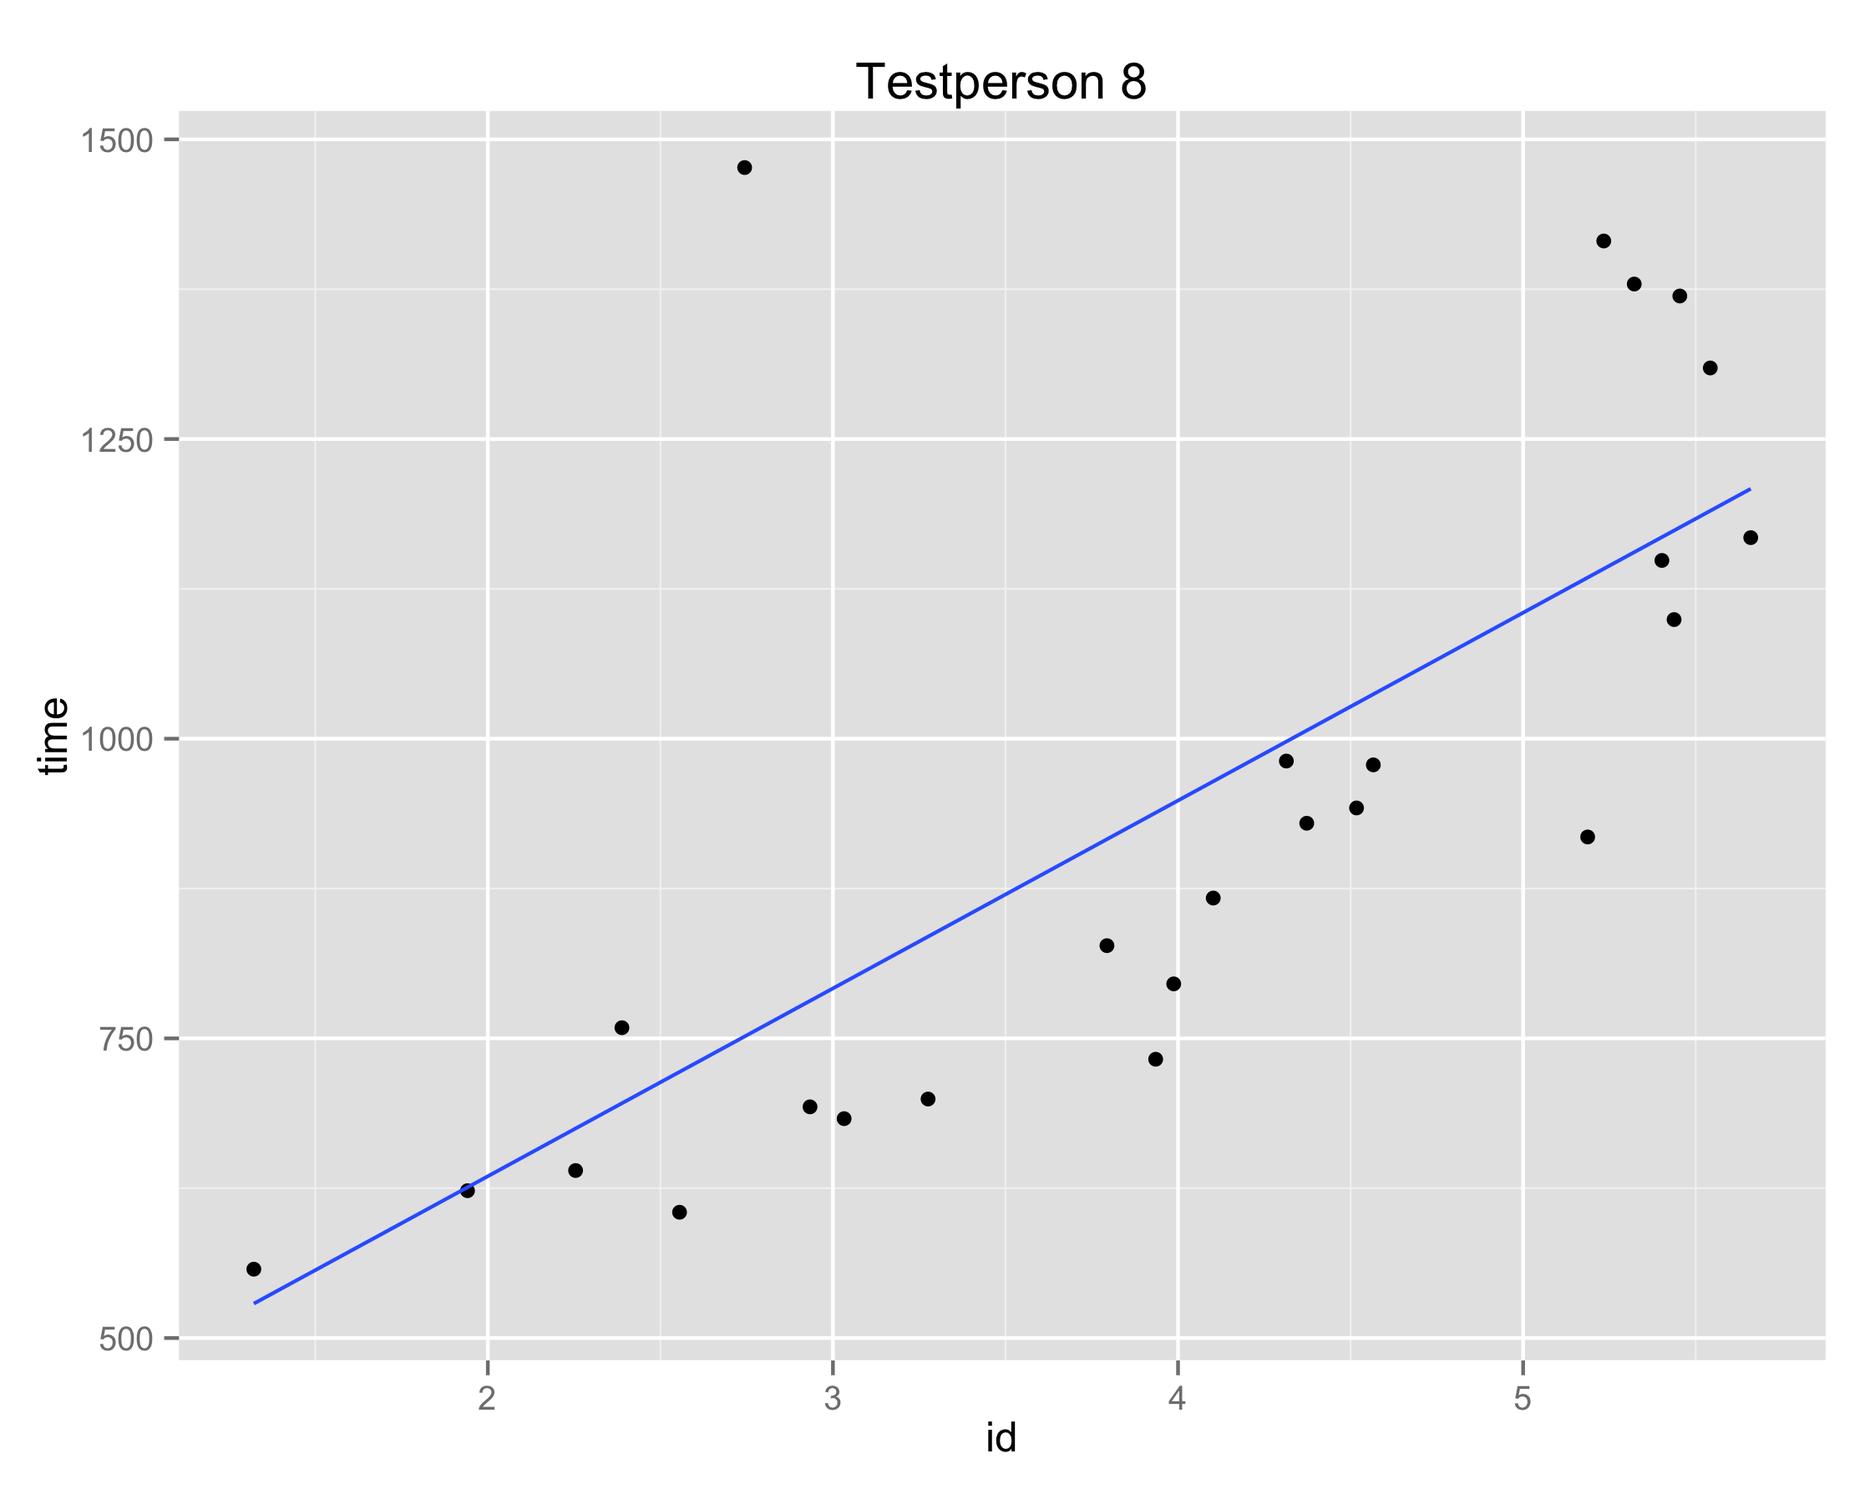
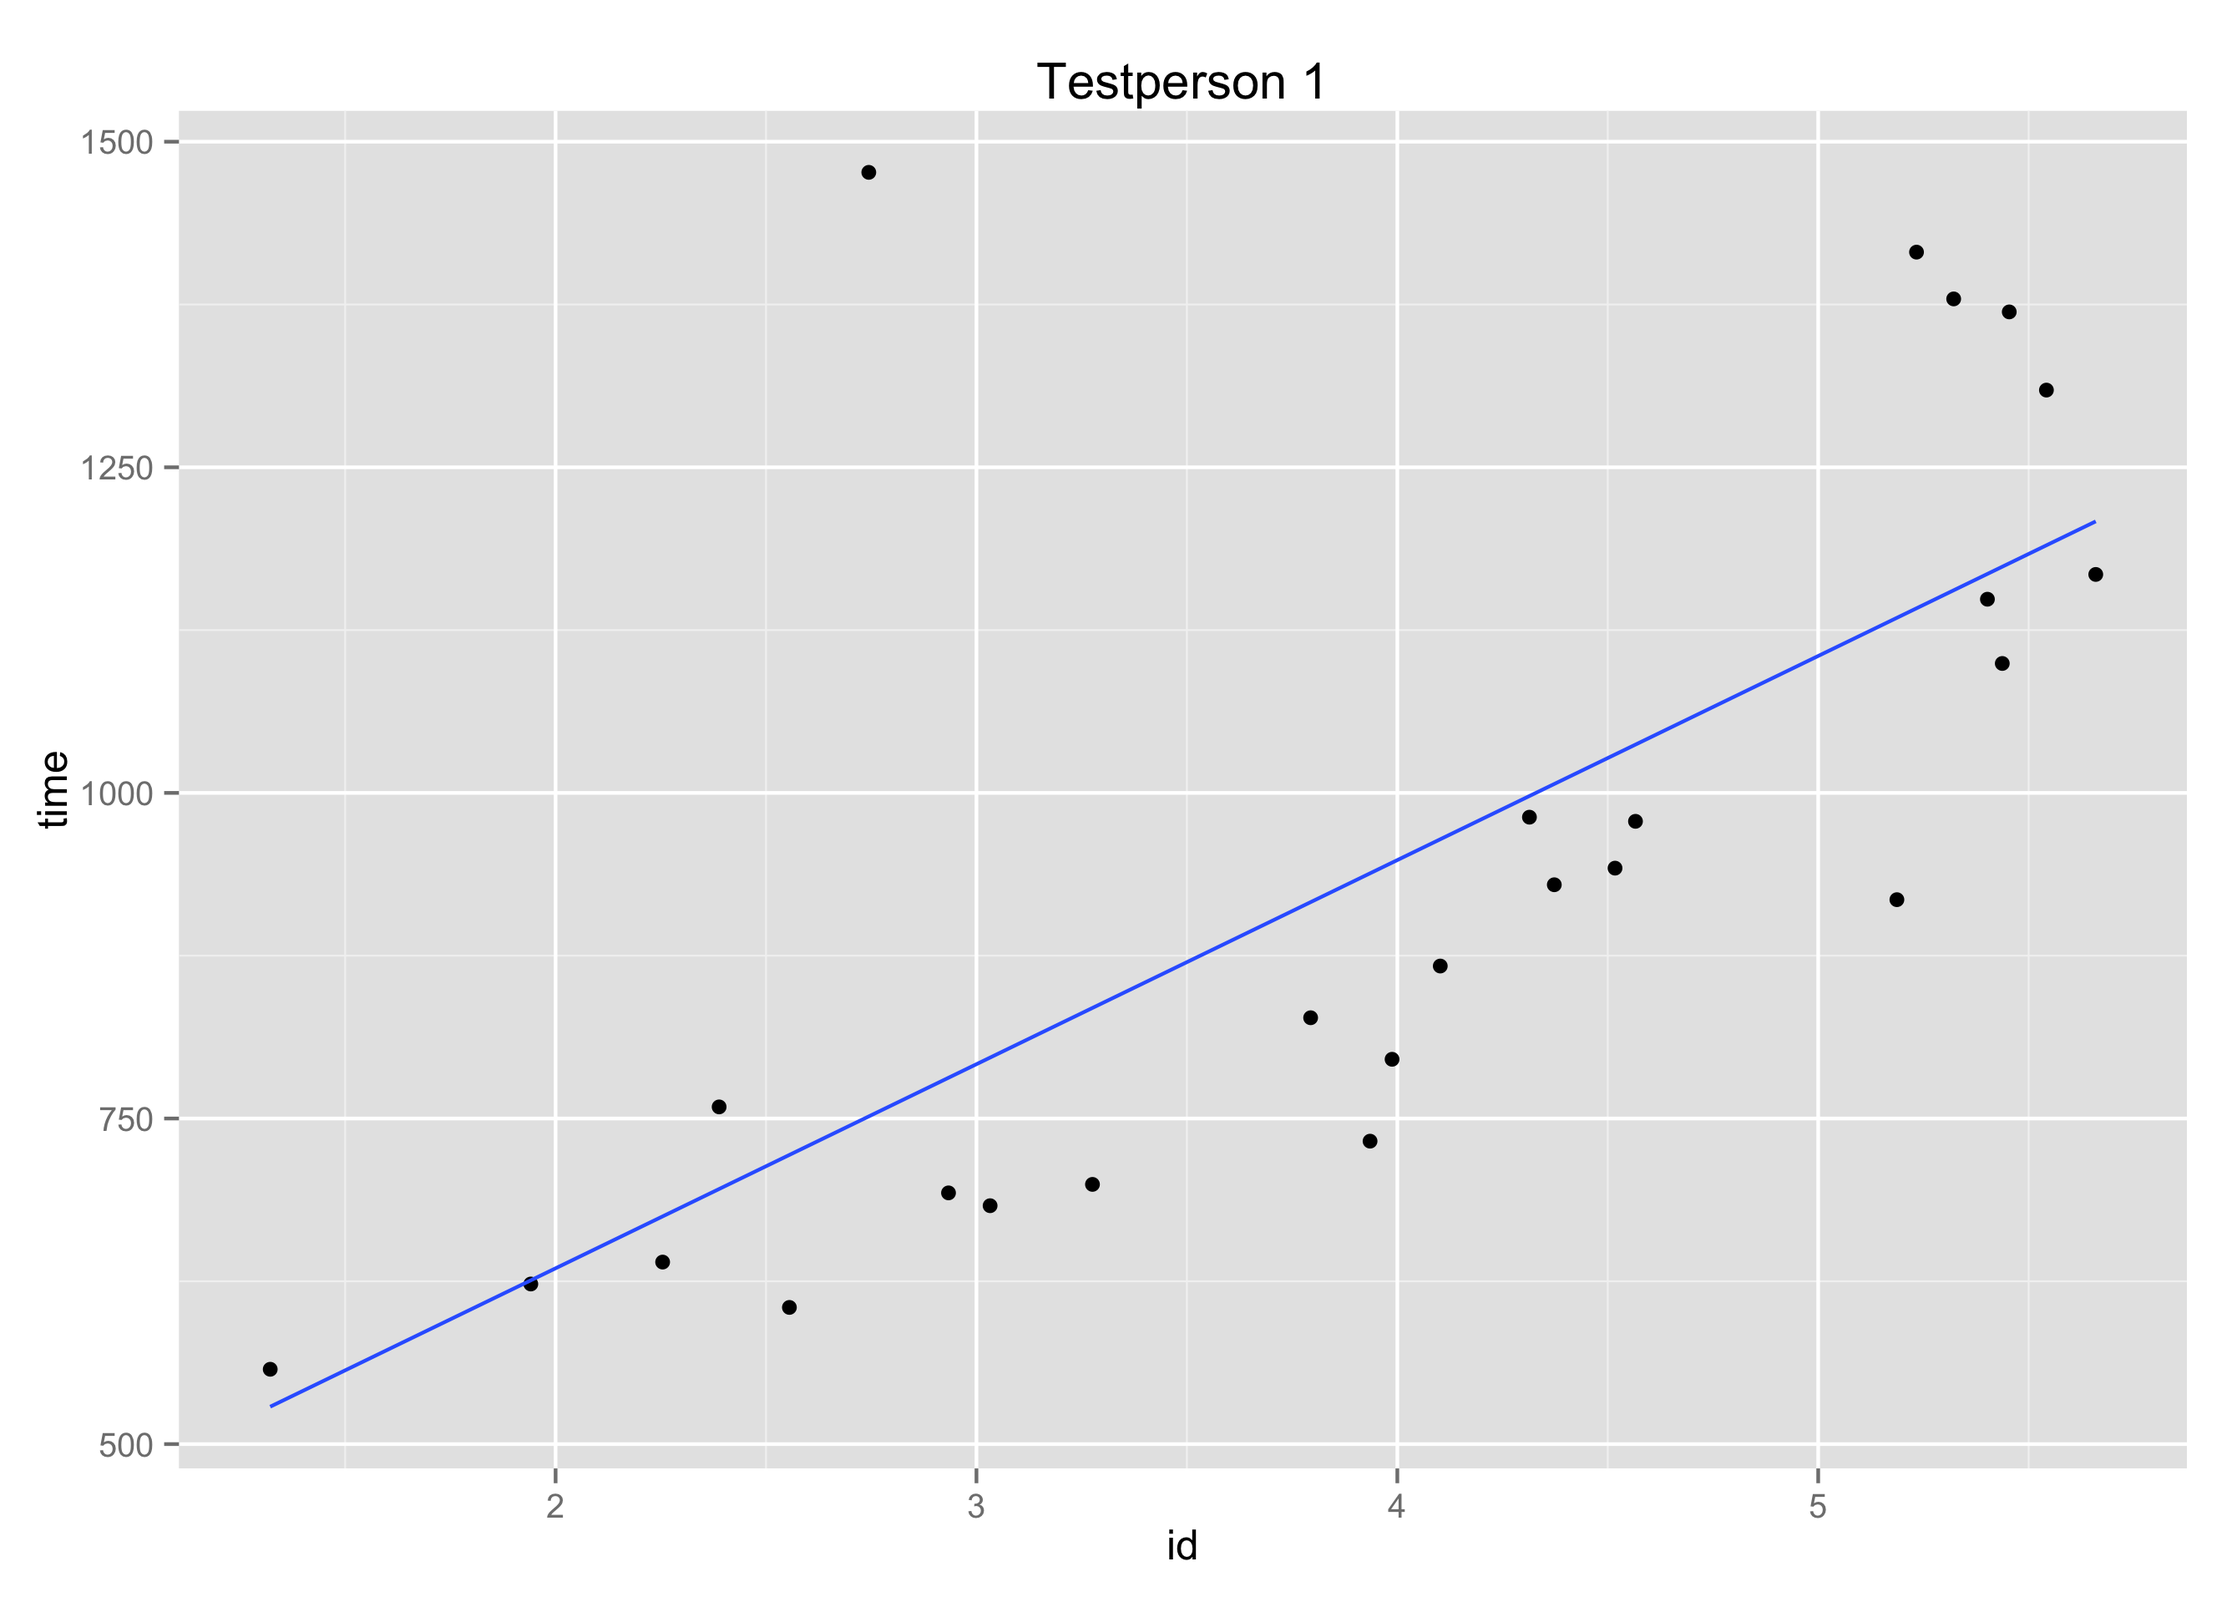
Lidt mere

diff --git a/latex/main.tex b/latex/main.tex
@@ -510,36 +510,42 @@ $AIC()$\footnote{R dokumentation om $AIC()$: \url{https://stat.ethz.ch/R-manual/
 
 \addcontentsline{toc}{section}{Indledende analyse}
 \section*{Indledende analyse}
-For at være sikre på, at vores data fra det ukontrollerede crowdsourcing eksperiment kan bruges til at sammenligne de fire formuleringer har vi først kigget på vores 10 testdeltagere fra laboratieeksperimentet hver for sig. Vi har fitted vores 10 testdeltageres data fra pegeopgaverne til Fitts lov hver for sig. To af disse plots kan ses i figurerne \ref{fig:testdeltager1}, \ref{fig:testdeltager3}.  Det kan på graferne ses, hvordan punkterne ligger tæt omkring modellen, angivet ved den blå linje. Men også, at enkelte datapunkter bryder tendensen, specielt på figur \ref{fig:testdeltager3}.
+For at være sikre på, at vores data fra det ukontrollerede crowdsourcing eksperiment kan bruges til at sammenligne de fire formuleringer har vi først kigget på vores 10 testdeltagere fra laboratieeksperimentet hver for sig. Vi har fitted vores 10 testdeltageres data fra pegeopgaverne til Fitts lov hver for sig. To af disse plots kan ses i figur \ref{fig:testdeltager1} og \ref{fig:testdeltager3}.  Det kan på graferne ses, hvordan punkterne ligger tæt omkring modellen, angivet ved den blå linje. Men også, at enkelte datapunkter bryder tendensen, specielt på figur \ref{fig:testdeltager3}.
 
-Vi har derfor forsøgt at fjernet alle datapunkter, som afviger med mere end 3 gange standardafvigelsen, $\sigma$, som er kvadratroden af variansen på datasættet \cite{pearson1894}. Ved at filtrere data med for stor afvigelse fra kan vi fitte en model, der beskriver størstedelen af vores data bedre. Figur \ref{fig:testdeltager7filter} og \ref{fig:testdeltager7unfilter} viser den tilpassede affine model for testdeltager 7 med og uden filtreret data.
+Vi har derfor forsøgt at fjernet alle datapunkter, som afviger med mere end 3 gange standardafvigelsen, $\sigma$, som er kvadratroden af variansen på datasættet \cite{pearson1894}. Ved at filtrere data med for stor afvigelse fra kan vi fitte en model, der beskriver størstedelen af vores data bedre. Figur \ref{fig:testdeltager7unfilter} og \ref{fig:testdeltager7filter} viser den tilpassede affine model for testdeltager 7 med og uden filtreret data.
 
 \begin{minipage}{\linewidth}
-	\begin{minipage}[b]{.50\linewidth}
+	\begin{minipage}[b]{.45\linewidth}
 		\includegraphics[width=\textwidth]{images/plots/plot_model_test_1}
-		\captionof{figure}{Testdeltager 1 med tiden ud af $y$-aksen og $ID$ på $x$-aksen}
+		\captionof{figure}{Testdeltager 1's 25 pegeopgave data med tiden ud af $y$-aksen og $ID$ på $x$-aksen}
 		\label{fig:testdeltager1}
 	\end{minipage}
-	\begin{minipage}[b]{0.50\linewidth}
+	\begin{minipage}[b]{0.1\linewidth}
+	~
+	\end{minipage}
+	\begin{minipage}[b]{0.45\linewidth}
 		\includegraphics[width=\textwidth]{images/plots/plot_model_test_2}
-		\captionof{figure}{Testdeltager 3 med tiden ud af $y$-aksen og $ID$ på $x$-aksen}
+		\captionof{figure}{Testdeltager 3's 25 pegeopgave data med tiden ud af $y$-aksen og $ID$ på $x$-aksen}
 		\label{fig:testdeltager3}
 	\end{minipage}
 \end{minipage}
 
 \newpage
-På baggrund af de affine linjers overenstemmelse med størstedelen af datapunkterne fra det kontrollerede eksperiment har vi konkluderet, at det tilsvarende vil gøre sig gældende for vores ukontrollerede data, og derved godt kan danne grundlag for en analyse af de fire formuleringer af Fitts' lov. Vores analyse vil basere sig på et filtreret datasæt ved den oven nævnte $\sigma$ metode, så eventuelle perifære data ikke medtages.
+På baggrund af de affine linjers overenstemmelse med datapunkterne fra det kontrollerede eksperiment har vi konkluderet, at dataene fra vores ukontrollerede forsøg også kan beskrives af de fire formuleringer. Vi vil derfor analysere de fire formuleringer af Fitts' lov med vores data fra det ukontrollerede crowdsourcing forsøg. Vores analyse vil basere sig på et filtreret datasæt ved den oven nævnte $\sigma$ metode, så eventuelle perifære data medtages ikke. I resten af analysen vil de 264 testdeltageres opgaver betyde den filtrerede del af det fulde datasæt.
 
 \begin{minipage}{\linewidth}
-	\begin{minipage}[b]{.50\linewidth}
-		\includegraphics[width=\textwidth]{images/plots/plot_model_test_comparison_filtered}
-		\captionof{figure}{Testdeltager 7 med filtreret datasæt}
-		\label{fig:testdeltager7filter}
-	\end{minipage}
-	\begin{minipage}[b]{0.50\linewidth}
+	\begin{minipage}[t]{0.45\linewidth}
 		\includegraphics[width=\textwidth]{images/plots/plot_model_test_comparison_unfiltered}
-		\captionof{figure}{Testdeltager 7 uden nogen filtrering}
+		\captionof{figure}{Testdeltager 7's 25 pegeopgave data uden nogen filtrering}
 		\label{fig:testdeltager7unfilter}
+	\end{minipage}
+	\begin{minipage}[b]{0.1\linewidth}
+	~
+	\end{minipage}
+	\begin{minipage}[t]{.45\linewidth}
+		\includegraphics[width=\textwidth]{images/plots/plot_model_test_comparison_filtered}
+		\captionof{figure}{Testdeltager 7's 25 pegeopgave data med filtreret datasæt. Kun 24 datapunkter tilbage}
+		\label{fig:testdeltager7filter}
 	\end{minipage}
 \end{minipage}
 
@@ -555,9 +561,9 @@ Hver af de fire formuleringer af Fitts lov har vi tilpasset til vores data fra d
 \text{Meyer's: } &T = 504.48 + 157.13 \cdot \sqrt{\frac{A}{W}}
 \end{align*}
 
-Bemærk at den additive konstant er målt i millisekunder ligesom vores registrerede tider fra datasættet. Ud fra de tre additive konstanter, kan det ses, at testdeltagerne i gennemsnit bruger cirka 450 millisekunder på at opfange opgaven før de bevæger deres pegeenhed. Datapunkterne og de fire affine modeller er plottet og vist i figur \ref{fig:welford_affine_line}, \ref{fig:fitt_affine_line}, \ref{fig:meyer_affine_line} og \ref{fig:mackenzie_affine_line}. Bemærk, hvordan datapunkterne danner 25 vertikale 'søjler', én for hvert af vores pegeopgavers $ID$.
+Bemærk, at den additive konstant er målt i millisekunder ligesom vores registrerede tider fra datasættet. Ud fra de tre additive konstanter, kan det ses, at testdeltagerne i gennemsnit bruger cirka 450 millisekunder på at opfange opgaven før de bevæger deres pegeenhed. Datapunkterne og de fire affine modeller er plottet og vist i figur \ref{fig:welford_affine_line}, \ref{fig:fitt_affine_line}, \ref{fig:meyer_affine_line} og \ref{fig:mackenzie_affine_line}. Hvert datapunkt er én testdeltagers opgave løsning. Bemærk, hvordan datapunkterne danner 25 vertikale 'søjler', én for hvert af vores pegeopgavers $ID$.
 
-Det er de fire matematiske modeller som vores pegeopgaveanalyse vil tage udgangspunkt i. Ud fra modellerne og figurerne er det dog svært at sige noget om, hvilke af modellerne der klarer sig bedre i at beskrive datapunkterne end resten. Vi vil derfor gøre brug af en AIC sammenligning og underbygge den med en residualanalyse.
+Det er de fire matematiske modeller som vores pegeopgaveanalyse vil tage udgangspunkt i. Ud fra modellerne og figurerne er det dog svært at sige noget om, hvilken af modellerne der klarer sig bedst i at beskrive datapunkterne. For at få et mere håndgribeligt resultat at analysere dette ud fra, vil vi gøre brug af en AIC sammenligning og underbygge den med en residualanalyse.
 
 
 \begin{minipage}{\linewidth}
@@ -644,11 +650,11 @@ Det ses af figur \ref{fig:plot_residual_welford} at Welford's især er dårliger
 
 \addcontentsline{toc}{section}{Modelanalyse af navigationsopgaver}
 \section*{Modelanalyse af navigationsopgaver}
-I vores forsøg havde vi, udover pegeopgaven, også tunnel- og spiralopgaver. Vi vil i dette afsnit forsøge at tilpasse de fire formuleringer af Fitts lov på vores navigationsopgaver, velvidende om, at det ikke er den en type opgaver de er beregnet til. Accot og Zhai har i deres artikel \cite{accot1997} undersøgt lignende navigationsopgaver og fundet $ID$ specifikt for både tunnel- og spiralopgaver, hvilket vi vil bruge til at sammenligne med de fire formuleringer.
+I vores forsøg havde vi, udover pegeopgaven, også tunnel- og spiralopgaver. Vi vil i dette afsnit forsøge at tilpasse de fire formuleringer af Fitts lov på vores navigationsopgaver, velvidende om, at det ikke er en type opgaver de er beregnet til. Accot og Zhai har i deres artikel \cite{accot1997} undersøgt lignende navigationsopgaver og fundet et $ID$ specifikt for både tunnel- og spiralopgaver, hvilket vi vil bruge til at sammenligne med de fire formuleringer.
 
 \addcontentsline{toc}{subsection}{Analyse af tunnelopgaver}
 \subsection*{Analyse af tunnelopgaver}
-De fire formuleringer er, som benævnt, ikke lavet til navigationsopgaver, vi har dog alligevel tilpasset en lineær model med deres respektive ID, til vores tunneldata. Vi har valgt afstanden, $A$, til at være længden på tunnellen, og bredden, $W$, til at være størrelse på tunnelens højre lodrette linje, slutstregen, som altid er $8$ pixels. Ved lineær regression, $lm()$, med $R$ fik vi tilpasset nedenstående matematiske modeller af de fire formuleringer.
+De fire formuleringer er, som benævnt, ikke lavet til navigationsopgaver, vi har dog alligevel tilpasset en lineær model med deres respektive ID, til vores 264 testdeltageres tunnelopgaver. Vi har valgt afstanden, $A$, til at være længden på tunnellen, $A=[20,30,40,50]$ pixel. Bredden, $W$, har vi valgt som størrelsen på tunnelens højre lodrette linje, slutstregen, der altid er $8$ pixels. Ved lineær regression, $lm()$, med $R$ fik vi tilpasset nedenstående matematiske modeller af de fire formuleringer.
 
 \begin{align*}
 \text{Fitts': } &T = 3532.2 + 581.9\cdot \log_2\left(\frac{2A}{W}\right)\\
@@ -657,15 +663,19 @@ De fire formuleringer er, som benævnt, ikke lavet til navigationsopgaver, vi ha
 \text{Meyer's: } &T = 5863.07 + 210.48 \cdot \sqrt{\frac{A}{W}}
 \end{align*}
 
-Helt naturligt er det additive led markant højere for tunnelopgaverne end for pegeopgaverne, da det gennemsnitligt har taget længere tid for vores testdeltagere at gennemføre dem. Gennemsnittet for tunnelopgaverne er på $7673.01$ millisekunder og $983.30$ millisekunder for pegeopgaverne. Det additive led kan dog ikke fortolkes som reaktionstiden for tunnelopgaverne, da tiden starter når testdeltageren passere venstre lodrette streg og derfor allerede er i bevægelse.
+Helt naturligt er det additive led markant højere for tunnelopgaverne end for pegeopgaverne, da det gennemsnitligt har taget længere tid for vores testdeltagere at gennemføre dem. Gennemsnitstiden for de 264 testdeltageres tunnelopgaver er $7673.01$ millisekunder imod $983.30$ millisekunder for pegeopgaverne. Det additive led kan dog ikke fortolkes som reaktionstiden for tunnelopgaverne. Dette skyldes, at tiden bliver registreret fra testdeltageren passerer venstre lodrette streg i tunnellen, og derved allerede er i bevægelse ved $T=0$.
 
-Accot og Zhai beskriver i deres artikel \cite{accot1997}, hvordan en indsnævrende tunnelopgave kan opdeles i små delelementer, som hver især udgør én lille navigationsopgave. Ved at gøre dette kan man finde $ID$ som summen af delelementernes $ID$, hvilket resulterer i $ID_{NT} = \frac{A}{W_2-W_1}\ln\left(\frac{W_2}{W_1}\right)$, hvor $W_1$ er størrelsen på venstre lodrette streg, startstregen, og $W_2$ er størrelsen på højre lodrette streg, slutstregen. I følge Accot og Zhai er der en lineær afhængighed imellem tiden $T$ og dette $ID_{NT}$, hvilket giver anledning til følgende matematiske formulering $T = a+b\cdot ID_{NT}$. Tilpasses denne formulering med lineær regression til vores filtrerede datasæt får vi nedenstående model.
+Accot og Zhai beskriver i deres artikel \cite{accot1997}, hvordan en indsnævrende tunnelopgave kan opdeles i små delelementer, som hver især udgør én lille navigationsopgave. Ved at gøre dette kan man finde $ID$ som summen af delelementernes $ID$, hvilket resulterer i $ID_{NT} = \frac{A}{W_2-W_1}\ln\left(\frac{W_2}{W_1}\right)$. $W_1$ er størrelsen på venstre lodrette streg, startstregen, og $W_2$ er størrelsen på højre lodrette streg, slutstregen, imens $A$ er længden af tunnelen. I følge Accot og Zhai er der en lineær sammenhæng imellem tiden $T$ og dette $ID_{NT}$, hvilket giver anledning til følgende formulering $T = a+b\cdot ID_{NT}$. Tilpasses denne formulering med lineær regression til vores 264 testdeltageres tunnelopgaver findes nedenstående matematiske model.
 
 \begin{align*}
 \text{Accot \& Zhai: } T = 6112.40+47.77 \cdot \left(\frac{A}{W_2-W_1}\cdot\ln\left(\frac{W_2}{W_1 }\right)\right)
 \end{align*}
 
-Det kan bemærkes, at den primære forskel imellem Accot og Zhai's formulering og de fire andre er det multiplikative led, $b$. Da $ID_{NT}$ antager væsentligt højere værdier er $b$ tilsvarende mindre. De fem affine modeller har vi valgt at plotte i forhold til gennemsnittet af tiden for hvert $ID$, for bedre at visualisere, modellernes præcision. Plottene kan ses i figur \ref{fig:welford_tunnel_line}, \ref{fig:fitt_tunnel_line}, \ref{fig:meyer_tunnel_line},\ref{fig:mackenzie_tunnel_line} og \ref{fig:accot_tunnel_line}. På $x$-aksen er modellens respektive $ID$ imens tiden, $T$, for at løse en opgave er givet ved $y$-aksen.
+Det kan bemærkes, at den primære forskel imellem Accot og Zhai's formulering og de fire andre er det multiplikative led, $b$. Da $ID_{NT}$ antager væsentligt højere værdier end de fire andre $ID$'er, så er $b$ også tilsvarende mindre. 
+
+
+
+De fem affine modeller har vi valgt at plotte i forhold til gennemsnittet af tiden for hvert $ID$, for bedre at visualisere, modellernes præcision. Plottene kan ses i figur \ref{fig:welford_tunnel_line}, \ref{fig:fitt_tunnel_line}, \ref{fig:meyer_tunnel_line},\ref{fig:mackenzie_tunnel_line} og \ref{fig:accot_tunnel_line}. På $x$-aksen er modellens respektive $ID$ imens tiden, $T$, for at løse en opgave er givet ved $y$-aksen.
 
 Af graferne ser det ud til, at Welfords klarer sig markant dårligere end de fire andre formuleringer, som til gengæld ikke har nogen umiddelbar forskel. AIC analysen, \ref{tab:table_analysis_aic_tunnel} af de fem modeller viser netop dette, hvor Meyer's model klarer sig bedst, men med utrolig lille indbyrdes forskel imellem de bedste fire modeller. Kun Welford's formulering har en relativt markant dårligere præcision til dataene.
 
@@ -679,7 +689,21 @@ Fitts & 20549.68 & 0.07\\
 Mackenzie & 20549.68 & 0.07 \\
 Welford & 20558.46 & 8.84
 \end{tabular}
-\caption{AIC værdier og indbyrdes forskel med udgangspunkt i Fitts' som nulpunkt}
+\caption{AIC værdier for de 264 testdeltageres tunnelopgaver. Deres indbyrdes forskel er beregnet med udgangspunkt i Meyer's formulering som nulpunkt.}
+\label{tab:table_analysis_aic_tunnel}
+\end{table}
+
+\begin{table}[h]
+\centering
+\begin{tabular}{lll}
+Model & AIC værdi & Forskel\\\hline
+Meyer & 33.68 & 0 \\
+Accot \& Zhai & 38.17 & 4.49\\
+Mackenzie & 46.58 & 12.9 \\
+Fitts & 46.87 & 13.19\\
+Welford & 64.97 & 31.29
+\end{tabular}
+\caption{AIC værdier for gennemsnittet af tiderne for de 264 testdeltageres tunnelopgaver ved hvert $ID$. Deres indbyrdes forskel er beregnet med udgangspunkt i Meyer's formulering som nulpunkt.}
 \label{tab:table_analysis_aic_tunnel}
 \end{table}
 
